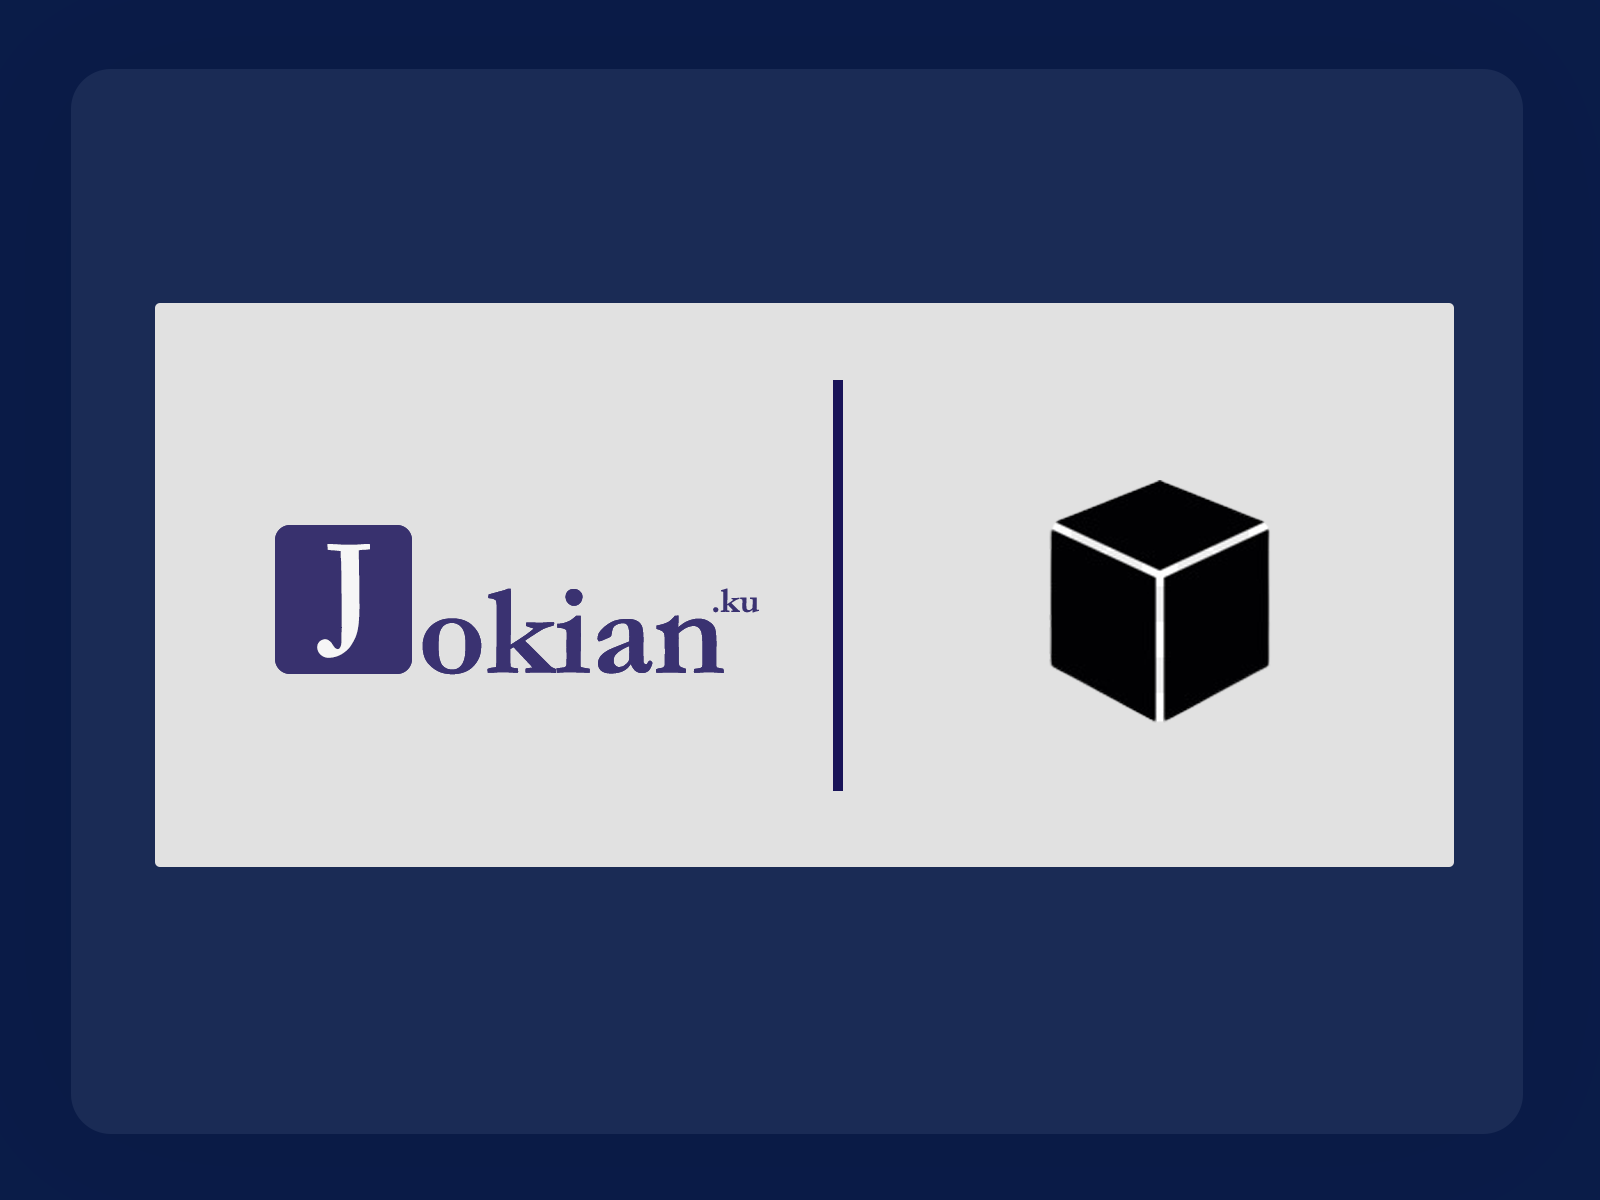
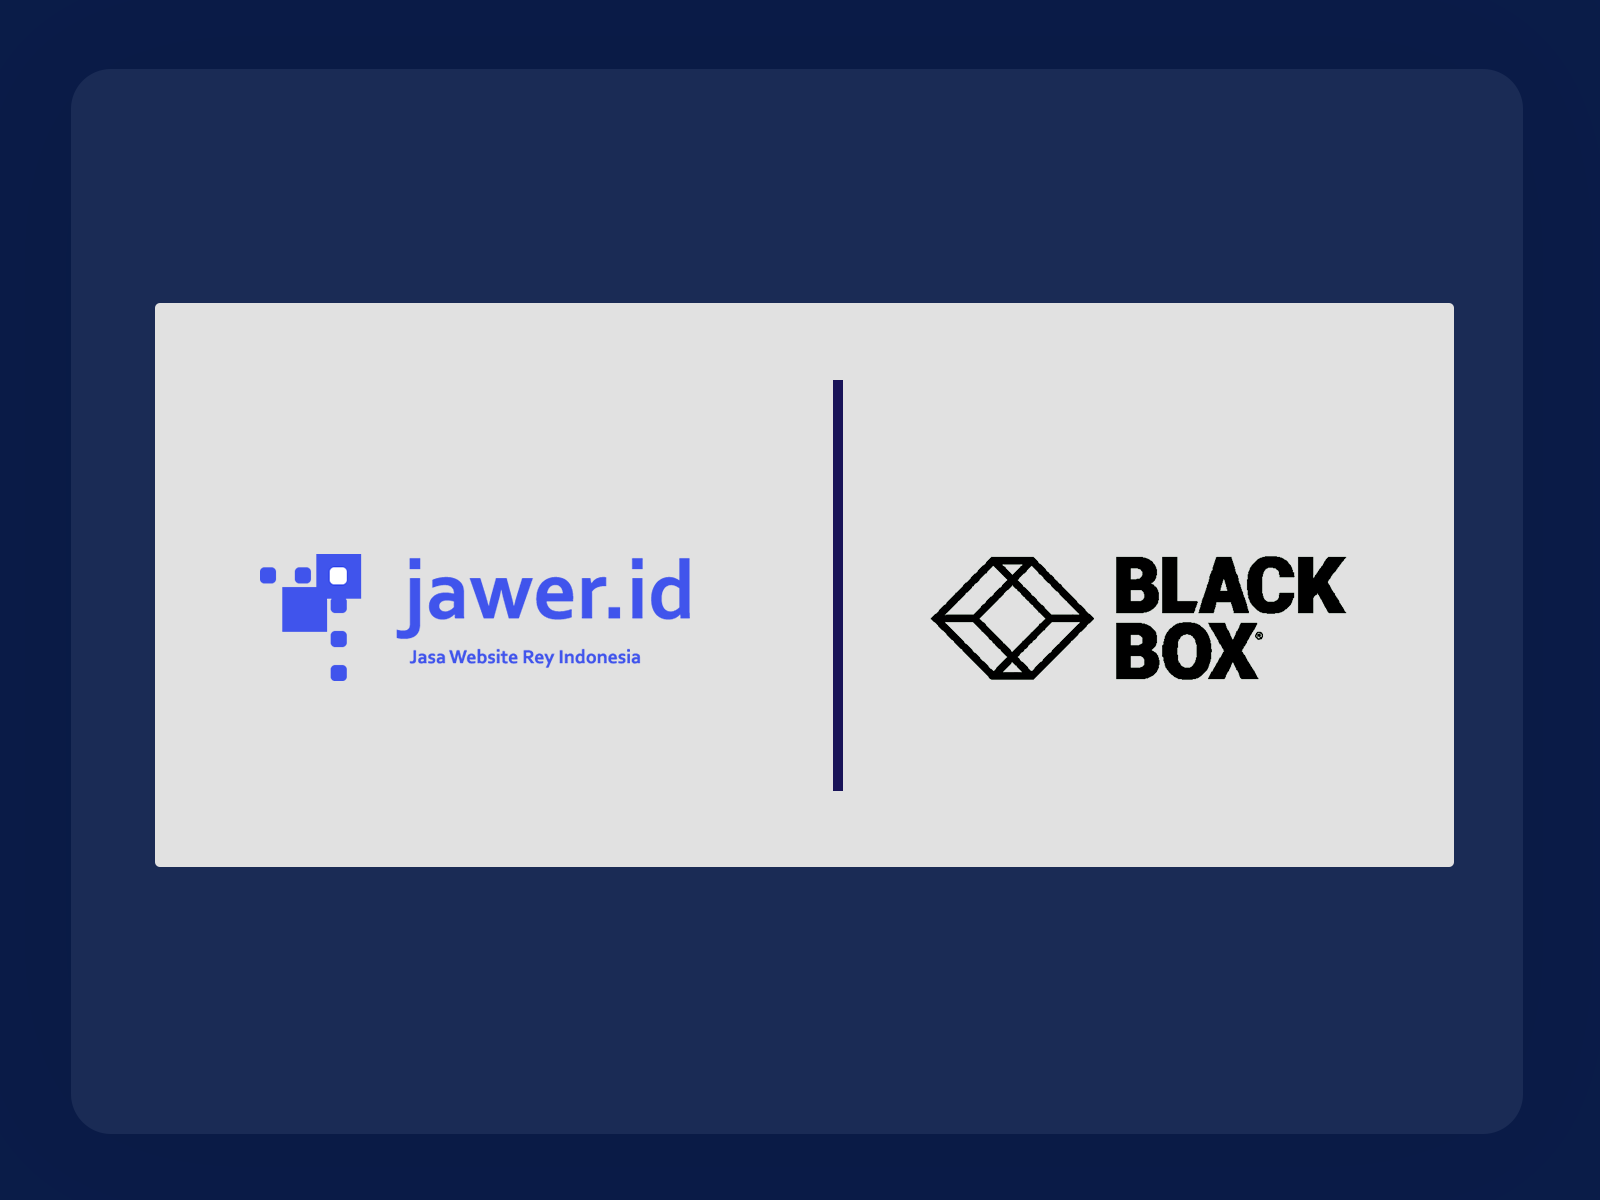
first commit

Changed region(s): [[0.5625, 0.4008, 0.8438, 0.6167], [0.1562, 0.4317, 0.4688, 0.5858]]

diff --git a/src/components/portfolio/Portfolio.jsx b/src/components/portfolio/Portfolio.jsx
@@ -10,25 +10,25 @@ const data = [
         id: 1,
         image: IMG1,
         title: 'Pembuatan Website',
-        instagram: 'https://instagram.com/jokian.ku'
+        instagram: 'https://wa.link/pe547g'
     },
     {
         id: 2,
         image: IMG2,
         title: 'Dokumen Test Case (Pengujian Blackbox)',
-        instagram: 'https://instagram.com/jokian.ku'
+        instagram: 'https://wa.link/pe547g'
     },
     {
         id: 3,
         image: IMG3,
         title: 'Pembuatan Pemodelan UML (Diagram Usecase, Activity, Sequence, dan Class)',
-        instagram: 'https://instagram.com/jokian.ku'
+        instagram: 'https://wa.link/pe547g'
     },
     {
         id: 4,
         image: IMG4,
         title: 'Pembuatan Mockup User Interface (UI) Menggunakan Figma atau Adobe XD',
-        instagram: 'https://instagram.com/jokian.ku'
+        instagram: 'https://wa.link/pe547g'
     },
 ];
 
@@ -49,7 +49,7 @@ const Portfolio = () => {
                                 <center>
                                     <h3>{title}</h3>
                                     <div className="portfolio__item-cta">
-                                        <a href={instagram} className='btn btn-primary' target='_blank'>Jokian.ku</a>
+                                        <a href={instagram} className='btn btn-primary' target='_blank'>Whatsapp</a>
                                     </div>
                                 </center>
                             </article>

diff --git a/src/components/about/About.jsx b/src/components/about/About.jsx
@@ -1,6 +1,6 @@
 import React from 'react';
 import './about.css';
-import Logo from '../../assets/logo-jokianku.png';
+import Logo from '../../assets/logo-jawer.jpg';
 
 const About = () => {
     return (
@@ -18,7 +18,7 @@ const About = () => {
                 <div className="about__content">
 
                     <p>
-                        Jokian.ku adalah suatu usaha karya anak bangsa untuk menampung kelah kesuh siswa atau mahasiswa yang kesulitan dalam pengerjaan tugas-tugasnya. Jokian.ku dapat melayani jokian berupa pembuatan website, pembuatan pemodelan <i>Unified Modelling Language</i> (UML) seperti diagram Usecase, diagram Activity, diagram Sequence, dan diagram Class, pembuatan <i>Mockup User Interface</i> (UI) menggunakan Figma atau Adobe XD, dan dokumen Test Case (Pengujian Blackbox).
+                        Jawer.id adalah suatu usaha karya anak bangsa untuk menampung kelah kesuh siswa atau mahasiswa yang kesulitan dalam pengerjaan tugas-tugasnya. Jokian.ku dapat melayani jokian berupa pembuatan website, pembuatan pemodelan <i>Unified Modelling Language</i> (UML) seperti diagram Usecase, diagram Activity, diagram Sequence, dan diagram Class, pembuatan <i>Mockup User Interface</i> (UI) menggunakan Figma atau Adobe XD, dan dokumen Test Case (Pengujian Blackbox).
                     </p>
 
                     <a href='#contact' className='btn btn-primary'>Kontak Kami</a>

diff --git a/src/components/contact/Contact.jsx b/src/components/contact/Contact.jsx
@@ -34,16 +34,10 @@ const Contact = () => {
                     <a href="mailto:panjangkalijoki@gmail.com" target='_blank'>Kirim Pesan</a>
                 </article>
                 <article className="contact__option">
-                    <FiInstagram className='contact__option-icon' />
-                    <h4>Instagram</h4>
-                    <h5>@jokian.ku</h5>
-                    <a href="https://instagram.com/jokian.ku" target='_blank'>Kirim Pesan</a>
-                </article>
-                <article className="contact__option">
                     <BsWhatsapp className='contact__option-icon' />
                     <h4>Whatsapp</h4>
                     <h5>+62 851 7406 0934</h5>
-                    <a href="https://wa.link/8d5qxv" className='a-contact' target='_blank'>Kirim Pesan</a>
+                    <a href="https://wa.link/pe547g" className='a-contact' target='_blank'>Kirim Pesan</a>
                 </article>
             </div>
         </section>

diff --git a/public/index.html b/public/index.html
@@ -5,8 +5,8 @@
     <meta charset="UTF-8">
     <meta http-equiv="X-UA-Compatible" content="IE=edge">
     <meta name="viewport" content="width=device-width, initial-scale=1.0">
-    <title>Profil Jokian.ku</title>
-    <link rel="icon" href="%PUBLIC_URL%/logo-jokianku.png" />
+    <title>Profil Jawer.id</title>
+    <link rel="icon" href="%PUBLIC_URL%/logo-jawer.jpg" />
 </head>
 
 <body>

diff --git a/src/components/header/Header.jsx b/src/components/header/Header.jsx
@@ -7,7 +7,7 @@ const Header = () => {
         <header>
             <div className="container header__container">
                 <h5>Hello, kami</h5>
-                <h1>Jokian.ku</h1>
+                <h1>Jawer.id</h1>
                 <h5 className="text-light">Melayani Beberapa Jasa Jokian</h5>
                 <CTA />
             </div>

diff --git a/src/components/contact/contact.css b/src/components/contact/contact.css
@@ -1,7 +1,7 @@
 .container.contact__container {
     width: 58%;
     display: grid;
-    grid-template-columns: 30% 30% 30%;
+    grid-template-columns: 45% 45%;
     gap: 12rem;
     justify-content: center;
     margin-bottom: 25rem;
